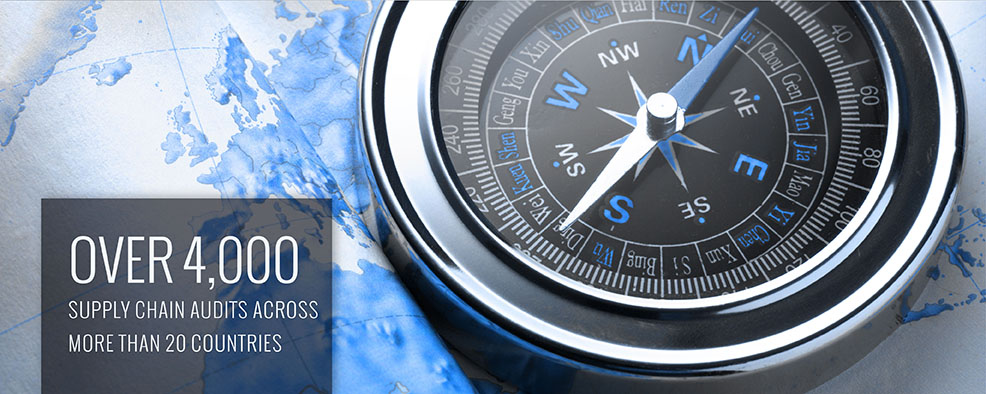
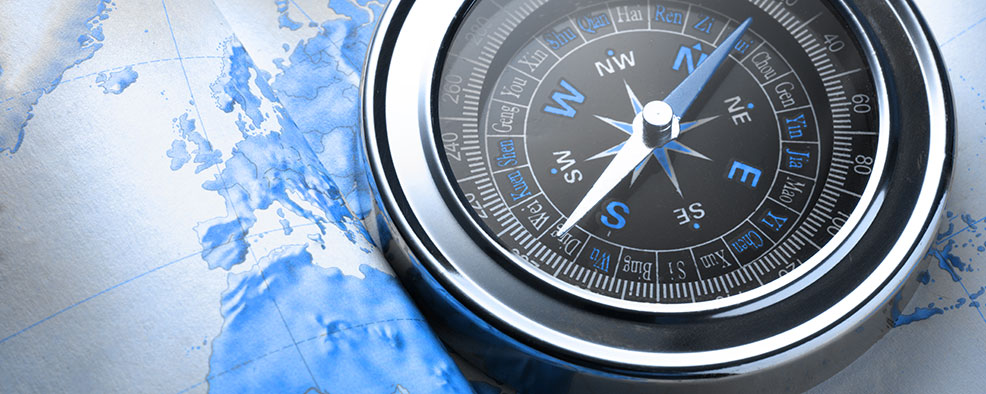
update Ron 20170509-02:18

diff --git a/wp-content/themes/omega/assets/css/main.css b/wp-content/themes/omega/assets/css/main.css
@@ -7313,17 +7313,27 @@ footer .copyright a {
   background: url("../img/home/logo_approach.png") no-repeat scroll left top;
 }
 .homeBannerItemContainer .homeThreeColumnContainer .homeThreeColumnItem .homeThreeColumnItemInnerDiv .threeColumnContent .learnMoreContainer {
-  border-top: 1px solid #a6a6a6;
   padding-top: 14px;
   margin-top: 25px;
-  width: 72px;
+  position: relative;
 }
 .homeBannerItemContainer .homeThreeColumnContainer .homeThreeColumnItem .homeThreeColumnItemInnerDiv .threeColumnContent .learnMoreContainer a {
   color: #963934;
-  font-size: 12px;
+  font-size: 14px;
   text-transform: uppercase;
   font-family: "Oswald";
   font-weight: 400;
+  letter-spacing: 1px;
+}
+.homeBannerItemContainer .homeThreeColumnContainer .homeThreeColumnItem .homeThreeColumnItemInnerDiv .threeColumnContent .learnMoreContainer:before {
+  position: absolute;
+  top: 0;
+  left: 0;
+  content: "";
+  width: 72px;
+  height: 1px;
+  background: #a6a6a6;
+  display: block;
 }
 @media (min-width: 768px) {
   .homeBannerContainer {
@@ -7407,6 +7417,7 @@ footer .copyright a {
   font-size: 19px;
   text-transform: uppercase;
   margin-bottom: 20px;
+  letter-spacing: 1px;
 }
 .innerContentContainer .contentContainer .banner_text h2 {
   margin-top: 0;
@@ -7470,11 +7481,13 @@ footer .copyright a {
   font-size: 14px;
   color: #55565a !important;
   font-style: italic;
+  line-height: 100%;
+  padding-bottom: 7px;
 }
 .innerContentContainer .contentContainer .companyAddress p {
   color: #706f73 !important;
   font-family: "Oswald";
-  font-size: 19px;
+  font-size: 20px;
   font-weight: 300;
   letter-spacing: 1px;
   line-height: 140%;
@@ -7508,18 +7521,19 @@ footer .copyright a {
   padding: 0 18px;
 }
 .innerContentContainer .contentContainer .leadership_item_container .leadership_item .leadership_wrapper .leader_name {
-  font-size: 22px;
+  font-size: 23px;
   font-family: "Oswald";
   text-transform: uppercase;
   margin-bottom: 12px;
 }
 .innerContentContainer .contentContainer .leadership_item_container .leadership_item .leadership_wrapper .leader_title {
   color: #b3b3b3;
-  font-size: 16px;
+  font-size: 18px;
   font-family: "Oswald";
   text-transform: uppercase;
   font-weight: 300;
   margin-bottom: 0px;
+  letter-spacing: 1px;
 }
 .innerContentContainer .contentContainer .leadership_item_container .leadership_item span {
   color: #fff;
@@ -7542,14 +7556,13 @@ footer .copyright a {
     position: relative;
   }
   .innerContentContainer .contentBannerContainer .banner_text {
-    display: none;
     background-color: rgba(121, 15, 15, 0.7);
     margin-bottom: 0;
     padding: 28px 16px 28px 30px;
     position: absolute;
     max-width: 295px;
     bottom: 0;
-    left: 40px;
+    left: 50px;
   }
   .innerContentContainer .contentBannerContainer .banner_text.grey_bg {
     background-color: rgba(30, 30, 30, 0.6);
@@ -7576,6 +7589,12 @@ footer .copyright a {
   }
 }
 @media (min-width: 992px) {
+  .innerContentContainer .contentContainer .contact_content .contact_item:first-child {
+    padding-left: 0;
+  }
+  .innerContentContainer .contentContainer .contact_content .contact_item:last-child {
+    padding-right: 0;
+  }
   .innerContentContainer .contentContainer .leadership_item_container .leadership_item {
     margin-right: 20px;
     width: 23.3%;

diff --git a/wp-content/themes/omega/assets/less/layouts/pages/_general-content.less b/wp-content/themes/omega/assets/less/layouts/pages/_general-content.less
@@ -60,6 +60,7 @@
 				font-size: 19px;
 				text-transform: uppercase;
 				margin-bottom:20px;
+				letter-spacing:1px;
 			}
 		}
 		
@@ -111,6 +112,8 @@
 			padding-bottom: 10px;
 		}	
 		
+		
+		
 		.companyName {
 			color: #55565a !important;
 			font-family: "Oswald";
@@ -129,13 +132,15 @@
 			font-size:14px;
 			color:#55565a !important;
 			font-style:italic;
+			line-height: 100%;
+			padding-bottom: 7px;
 		}
 		
 		.companyAddress {
 			p{
 				color: #706f73 !important;
 				font-family: "Oswald";
-				font-size: 19px;
+				font-size: 20px;
 				font-weight: 300;
 				letter-spacing: 1px;
 				line-height: 140%;
@@ -177,7 +182,7 @@
 					padding:0 18px;
 										
 					.leader_name{
-						font-size:22px;
+						font-size:23px;
 						font-family: "Oswald";
 						text-transform:uppercase;
 						margin-bottom:12px;
@@ -185,11 +190,12 @@
 					
 					.leader_title{
 						color:#b3b3b3;
-						font-size:16px;
+						font-size:18px;
 						font-family: "Oswald";
 						text-transform:uppercase;
 						font-weight:300;
 						margin-bottom:0px;
+						letter-spacing:1px;
 					}
 				}
 				
@@ -226,14 +232,14 @@
 		.contentBannerContainer{
 			position:relative;
 			.banner_text{
-				display:none;
+				//display:none;
 				background-color:rgba(121, 15, 15, 0.7);
 				margin-bottom:0;
 				padding:28px 16px 28px 30px;
 				position:absolute;
 				max-width:295px;
 				bottom:0;
-				left:40px;
+				left:50px;
 				
 				&.grey_bg{
 					background-color:rgba(30, 30, 30, 0.6);
@@ -281,6 +287,18 @@
 @media (min-width: @screen-md-min) {	
 	.innerContentContainer{
 		.contentContainer{
+			.contact_content{
+				.contact_item{
+					&:first-child{
+						padding-left:0;
+					}
+					
+					&:last-child{
+						padding-right:0;
+					}
+				}
+			}
+		
 			.leadership_item_container{
 				.leadership_item{
 					margin-right:20px;

diff --git a/wp-content/themes/omega/assets/js/scripts.js b/wp-content/themes/omega/assets/js/scripts.js
@@ -7766,7 +7766,12 @@ var Roots = {
 			
 			
 			// center map
-			center_map( map );
+			//center_map( map );
+			if($(window).outerWidth() >= 992){
+					center_map( map );
+				}else{
+					map.setCenter(new google.maps.LatLng(13.7278422, 100.5233353));
+				}
 			
 			
 			// return
@@ -7892,12 +7897,12 @@ var Roots = {
 			});
 		
 			$(window).resize(function(){
-				/*if($(window).outerWidth() >= 992){
-					$('.map_container').height($(window).outerHeight());
+				if($(window).outerWidth() >= 992){
+					center_map( map );
 				}else{
-					$('.map_container').height(500);	
-				}*/
-				center_map( map );
+					map.setCenter(new google.maps.LatLng(13.7278422, 100.5233353));
+				}
+				
 			});
 		
 		});	

diff --git a/wp-content/themes/omega/assets/js/_main.js b/wp-content/themes/omega/assets/js/_main.js
@@ -372,7 +372,12 @@ var Roots = {
 			
 			
 			// center map
-			center_map( map );
+			//center_map( map );
+			if($(window).outerWidth() >= 992){
+					center_map( map );
+				}else{
+					map.setCenter(new google.maps.LatLng(13.7278422, 100.5233353));
+				}
 			
 			
 			// return
@@ -498,12 +503,12 @@ var Roots = {
 			});
 		
 			$(window).resize(function(){
-				/*if($(window).outerWidth() >= 992){
-					$('.map_container').height($(window).outerHeight());
+				if($(window).outerWidth() >= 992){
+					center_map( map );
 				}else{
-					$('.map_container').height(500);	
-				}*/
-				center_map( map );
+					map.setCenter(new google.maps.LatLng(13.7278422, 100.5233353));
+				}
+				
 			});
 		
 		});	

diff --git a/wp-content/themes/omega/assets/less/layouts/pages/_home.less b/wp-content/themes/omega/assets/less/layouts/pages/_home.less
@@ -39,16 +39,30 @@
 					}
 					
 					.learnMoreContainer {
-						border-top: 1px solid #a6a6a6;
+						//border-top: 1px solid #a6a6a6;
 						padding-top: 14px;
 						margin-top:25px;
-						width: 72px;
+						//width: 72px;
+						position:relative;
+						
 						a{
 							color: #963934;
-							font-size:12px;
+							font-size:14px;
 							text-transform:uppercase;
 							font-family: "Oswald";
 							font-weight: 400;
+							letter-spacing:1px;
+						}
+						
+						&:before{
+							position:absolute;
+							top:0;
+							left:0;
+							content:"";
+							width:72px;
+							height:1px;
+							background:#a6a6a6;
+							display:block;
 						}
 					}
 				}

diff --git a/wp-content/themes/omega/templates/content-general.php b/wp-content/themes/omega/templates/content-general.php
@@ -50,12 +50,12 @@
                 
 				<?=apply_filters('the_content', get_post_field('post_content', $id)); ?>
                 
-				<div class="clearfix">
+				<div class="clearfix contact_content">
                 <?php
 				// check if the flexible content field has rows of data
 				if( have_rows('hk_company_detail') ): ?>
 				
-					<div class="col-sm-6"> 	 
+					<div class="col-sm-6 contact_item"> 	 
 					<?php while ( have_rows('hk_company_detail') ) : the_row(); 
 						
 						if( get_row_layout() == 'company_name' ): 
@@ -81,7 +81,7 @@
 				// check if the flexible content field has rows of data
 				if( have_rows('usa_company_detail') ): ?>
 				
-					<div class="col-sm-6"> 
+					<div class="col-sm-6 contact_item"> 
 					<?php while ( have_rows('usa_company_detail') ) : the_row(); 
 						
 						if( get_row_layout() == 'company_name' ): 
